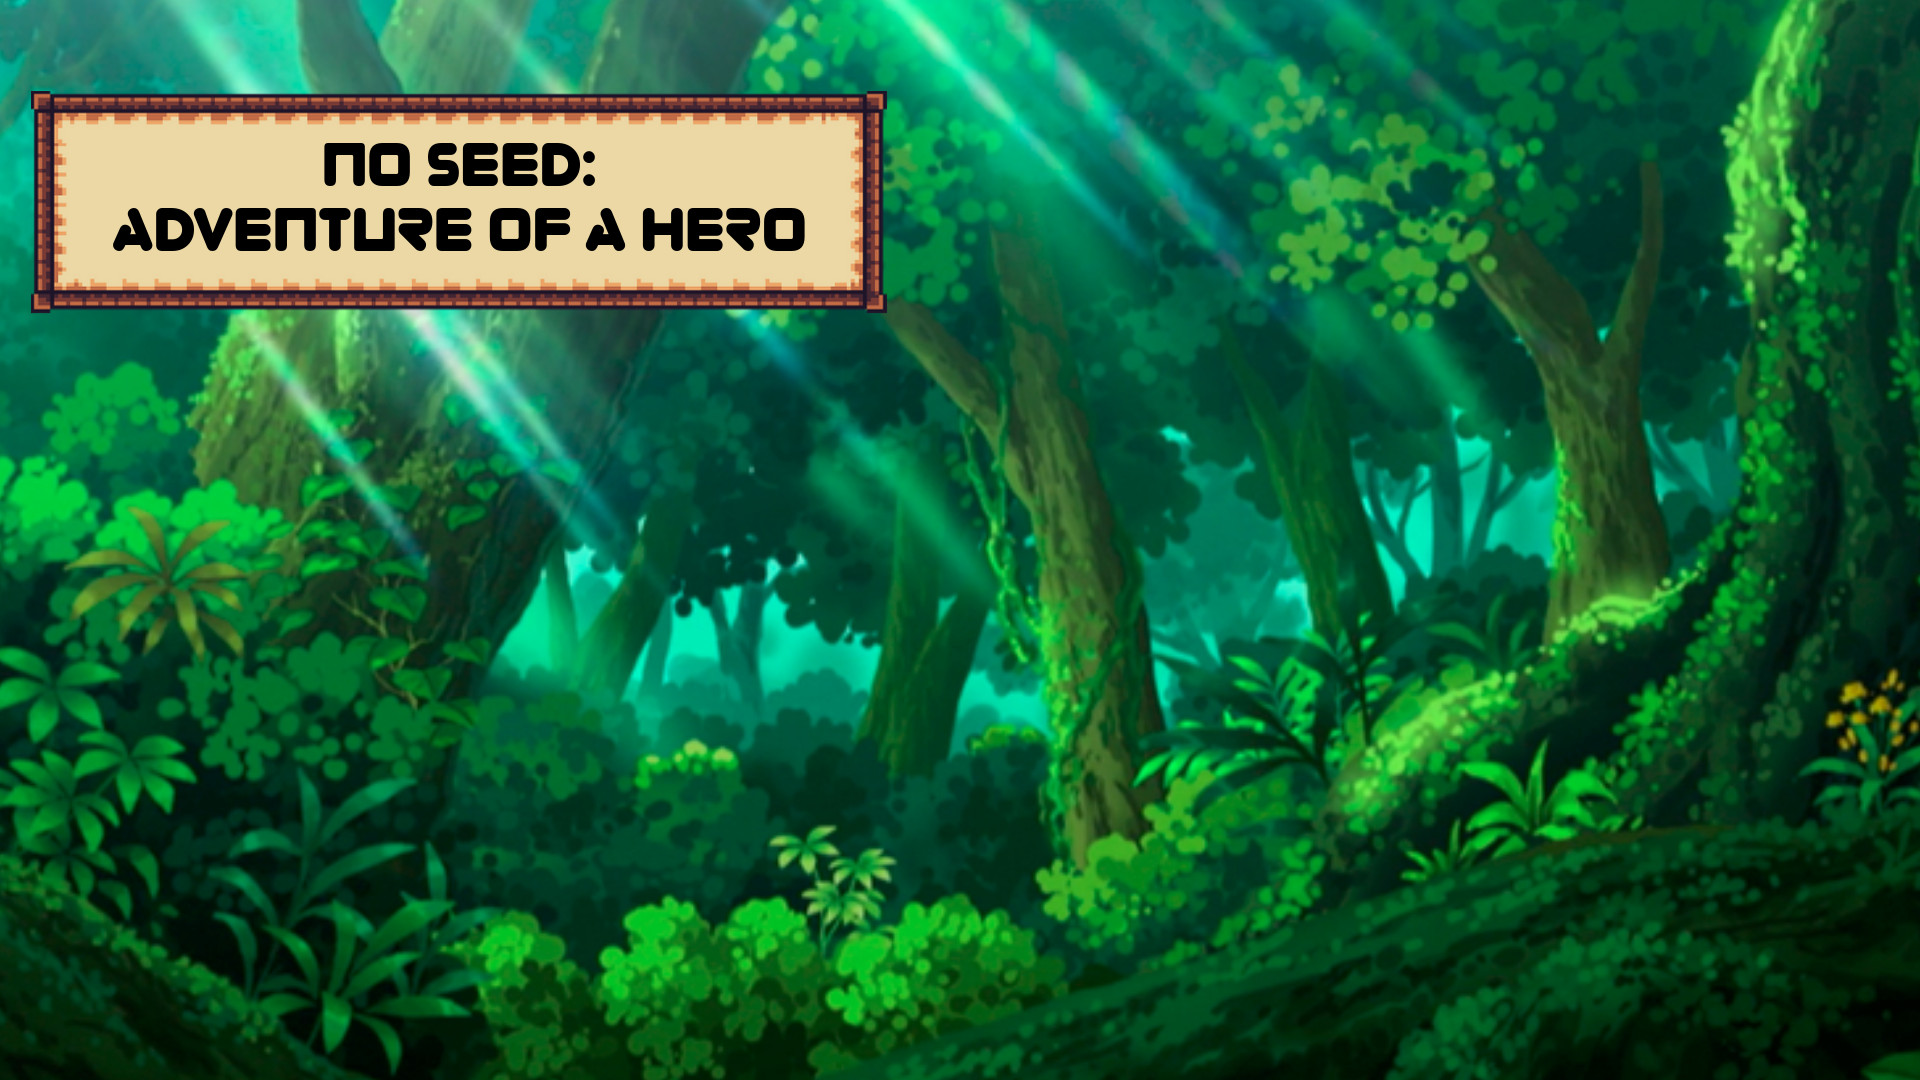
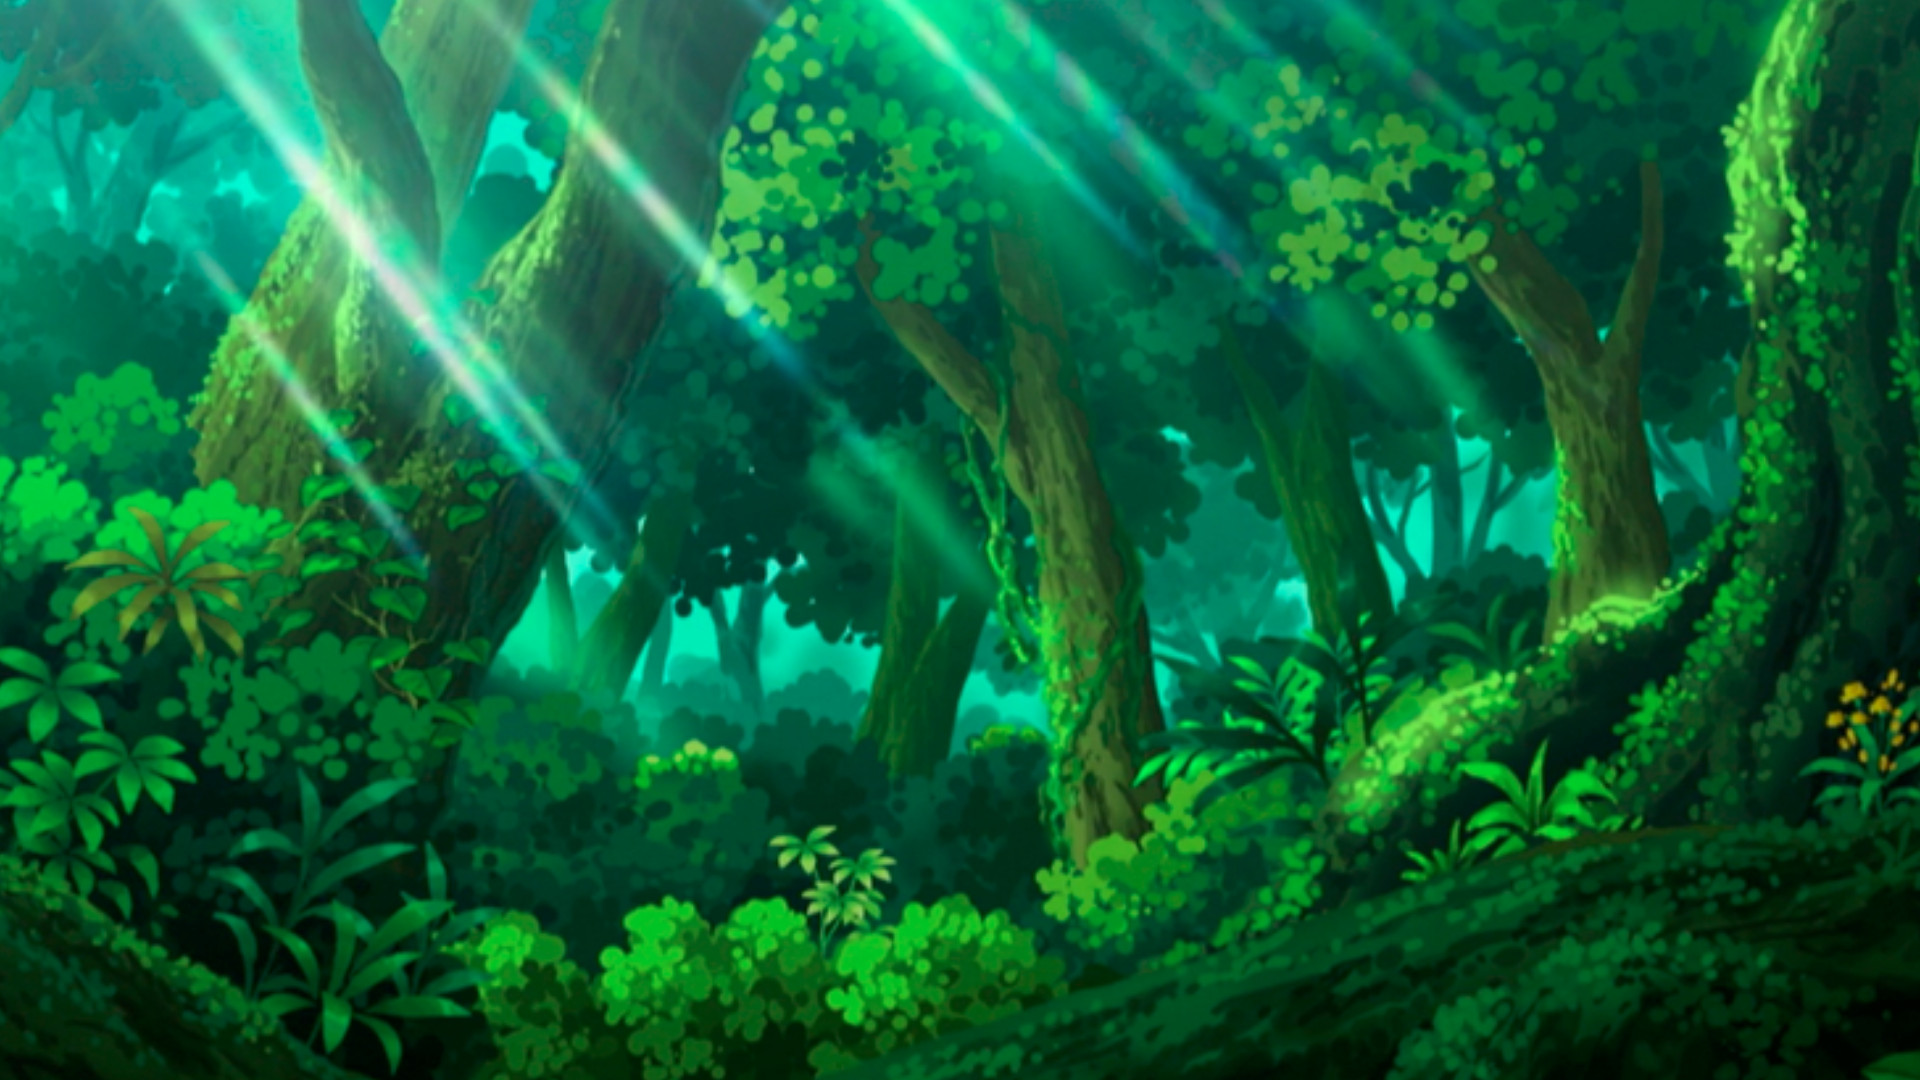
feat: add title screen

Changed region(s): [[0.0, 0.0611, 0.4688, 0.3056]]

diff --git a/src/display/display.c b/src/display/display.c
@@ -30,22 +30,25 @@ static const struct display_s Menu_list[] = {
 
 int display_main_menu(game_t *game, sfEvent *event)
 {
-    int b = 0;
-    int e = 0;
+    int b[2] = {0};
+    sfFont *font = sfFont_createFromFile(BASIC_FONT);
 
-    while (game->scenes[MAIN_MENU].elements[e])
-        draw_element(game->window, game->scenes[MAIN_MENU].elements[e++]);
-    while (game->scenes[MAIN_MENU].buttons[b]) {
+    while (game->scenes[MAIN_MENU].elements[b[0]])
+        draw_element(game->window, game->scenes[MAIN_MENU].elements[b[0]++]);
+    while (game->scenes[MAIN_MENU].buttons[b[1]]) {
         if (event->type == sfEvtMouseButtonPressed &&
-            is_click(game, b, MAIN_MENU)) {
-            draw_clicked(game->window, game->scenes[MAIN_MENU].buttons[b++]);
-            game->scenes[MAIN_MENU].buttons[b - 1]->action_clicked(game,
-                                                                        b - 1);
-        } else if (is_hoover(game, b, MAIN_MENU))
-            draw_hoover(game->window, game->scenes[MAIN_MENU].buttons[b++]);
+            is_click(game, b[1], MAIN_MENU)) {
+            draw_clicked(game->window, game->scenes[MAIN_MENU].buttons[b[1]++]);
+            game->scenes[MAIN_MENU].buttons[b[1] - 1]->action_clicked(game,
+                                                                    b[1] - 1);
+        } else if (is_hoover(game, b[1], MAIN_MENU))
+            draw_hoover(game->window, game->scenes[MAIN_MENU].buttons[b[1]++]);
         else
-            draw_button(game->window, game->scenes[MAIN_MENU].buttons[b++]);
+            draw_button(game->window, game->scenes[MAIN_MENU].buttons[b[1]++]);
     }
+    draw_text("               no seed:\nadventure of an hero", font,
+                                    (sfVector3f){100, 120, 50}, game->window);
+    sfFont_destroy(font);
     return EXIT_SUCCESS;
 }
 

diff --git a/src/initialize/init_main_menu.c b/src/initialize/init_main_menu.c
@@ -25,13 +25,15 @@ static void main_menu_actions(button_t **buttons)
 
 element_t **main_menu_elements(void)
 {
-    element_t **elements = malloc(sizeof(element_t *) * 2);
+    element_t **elements = malloc(sizeof(element_t *) * 3);
 
     if (!elements)
         return NULL;
     elements[0] = init_element(TITLE, (sfVector2f){0, 0},
                         (sfVector2f){2000, 2000}, (sfVector2f){1, 1});
-    elements[1] = NULL;
+    elements[1] = init_element(BUTTON, (sfVector2f){31, 91},
+                        (sfVector2f){857, 223}, (sfVector2f){1, 1});
+    elements[2] = NULL;
     if (!elements[0])
         return NULL;
     return elements;
